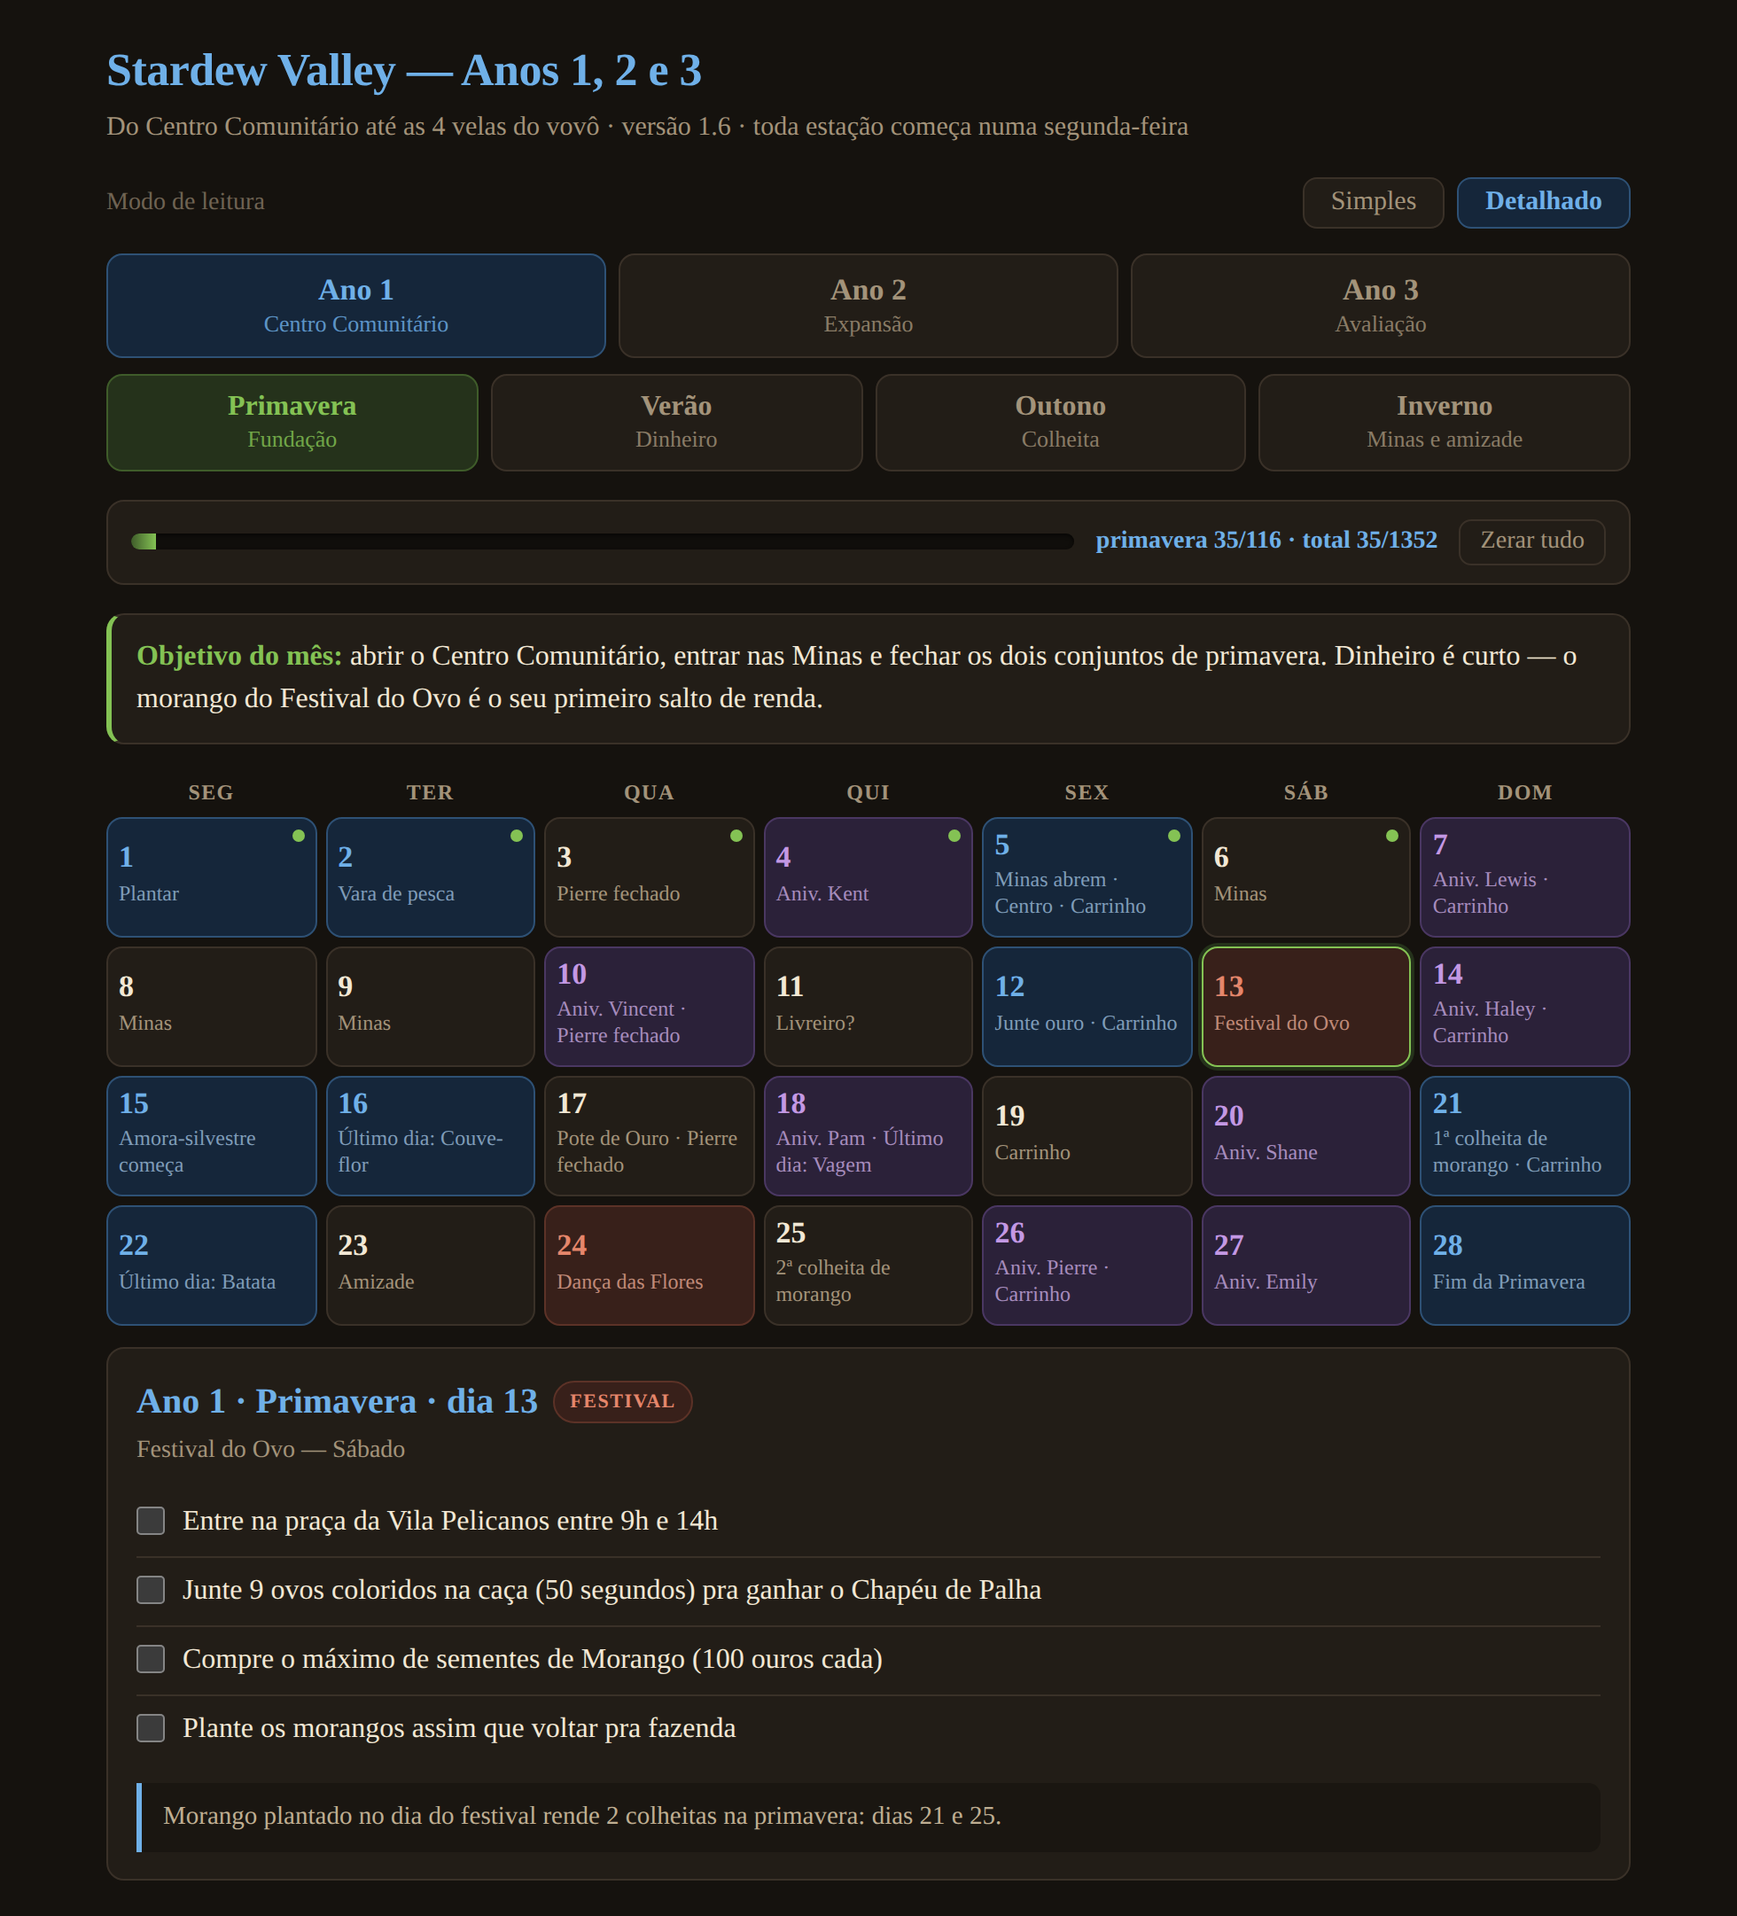
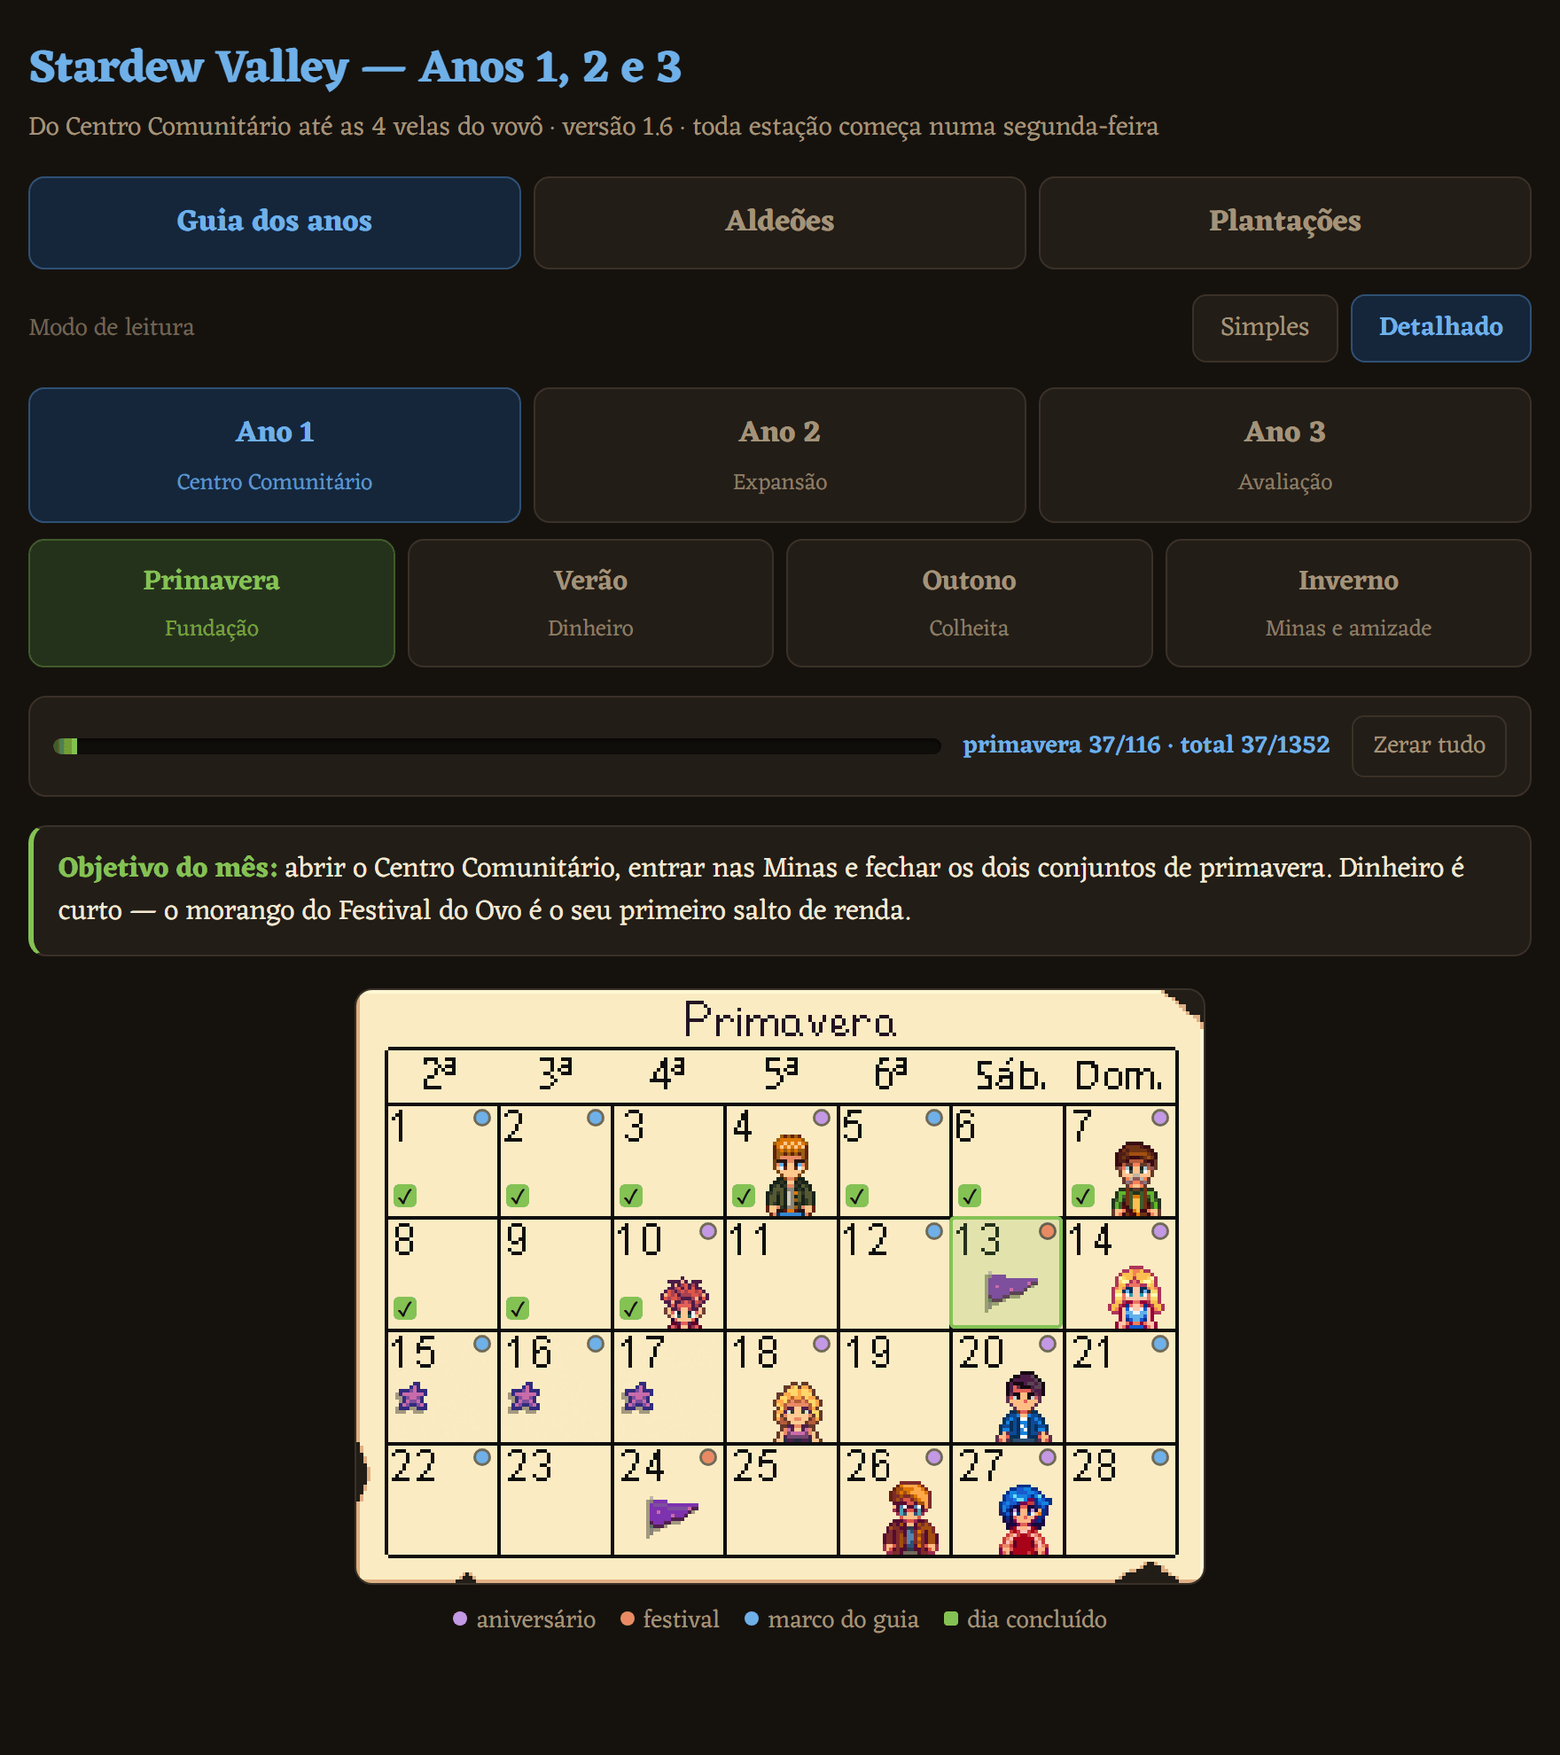
Reescreve o README e refaz as capturas de tela
O README ainda descrevia um guia de uma aba só, e as capturas mostravam o
calendário desenhado em CSS, que não existe mais. Todas as telas foram
refeitas na versão atual.

O texto passa a apresentar as três abas separadamente e os números foram
conferidos contra os dados do arquivo: 12 dias de festival por ano (não 10 —
Competição de Truta e Festival da Lula ocupam dois dias cada), 45 aldeões dos
quais 34 têm aniversário, presentes e horário, 128 itens entre culturas,
coleta e peixes, e 555 imagens embutidas.

Também explica o que mudou no uso: o guia reabre onde você parou, dá para
andar de dia em dia pela ficha ou pelas setas do teclado, e "Zerar tudo"
agora pergunta antes.

A lista de próximos passos foi atualizada — o calendário em tela estreita
saiu como resolvido e entrou no lugar conferir os 24 peixes que ainda estão
incompletos, que é onde ajuda mais quem quiser contribuir.

diff --git a/README.md b/README.md
@@ -14,18 +14,63 @@
 </p>
 
 <p align="center">
-  <img src="docs/imagens/01-visao-geral.png" alt="Tela do guia: seletor de ano, abas de estação, barra de progresso e o calendário da primavera do Ano 1" width="880">
+  <img src="docs/imagens/01-visao-geral.png" alt="Tela do guia: as três abas, o seletor de ano, as abas de estação, a barra de progresso e o calendário da primavera do Ano 1" width="880">
 </p>
 
 ---
 
 ## O que é isto
 
-Um guia de Stardew Valley que te diz **o que fazer em cada um dos 336 dias** dos três primeiros anos.
+Um guia de Stardew Valley que te diz **o que fazer em cada um dos 336 dias** dos três primeiros anos — e, quando você trava no meio da partida, também te diz **o que dar de presente para a Penny** e **qual é o último dia para plantar Morango**.
 
-Nada de abrir dez abas da wiki no meio da partida. Você abre o dia, lê as 4 ou 5 tarefas daquele dia, marca o que fez e fecha. O progresso fica salvo sozinho.
+Nada de abrir dez abas da wiki no meio do jogo. Você abre o dia, lê as 4 ou 5 tarefas daquele dia, marca o que fez e fecha. O progresso fica salvo sozinho, e quando você voltar o guia abre exatamente onde parou.
 
 **Por que ele existe:** guia de Stardew Valley não falta — mas quase tudo está em inglês, espalhado em várias páginas e depende de internet. Este é grátis, em português, cabe num arquivo só e abre no meio da partida mesmo sem sinal.
+
+## As três abas
+
+### 📅 Guia dos anos
+
+O roteiro dia a dia. O calendário é a imagem do calendário do próprio jogo, com os dias clicáveis por cima — as bolinhas coloridas marcam festival, aniversário e marco do guia, e o ✓ verde aparece quando você fecha o dia.
+
+Clique num dia e ele abre a lista de tarefas, com um bilhete no fim explicando o *porquê* quando a jogada tem pegadinha. No fim da ficha, os botões levam para o dia anterior e o próximo — no dia 28 eles viram a estação sozinhos, e do Inverno pulam para o ano seguinte. No computador as setas ← e → do teclado fazem o mesmo.
+
+<img src="docs/imagens/02-detalhe-do-dia.png" alt="Detalhe do dia 13 da primavera: Festival do Ovo, com quatro tarefas marcáveis, uma nota sobre o morango e os botões de dia anterior e próximo dia" width="880">
+
+### 👥 Aldeões
+
+Os **45 moradores do vale**, com o retrato de cada um embutido no arquivo. Busca por nome e filtro pela estação do aniversário.
+
+<img src="docs/imagens/03-aldeoes.png" alt="Galeria dos aldeões separada em solteiros, solteiras e moradores do vale, com retrato e data de aniversário de cada um" width="880">
+
+Clique num aldeão e sai a ficha: aniversário, onde mora, família, se dá para casar, os **melhores presentes** com o ícone de cada item, e o **horário completo** dele — por estação, com os desvios de chuva e festival e a rotina depois do casamento.
+
+<img src="docs/imagens/04-ficha-do-aldeao.png" alt="Ficha da Penny: aniversário no Outono 2, casável, melhores presentes com ícone e o horário de verão aberto em tabela" width="880">
+
+### 🌾 Plantações
+
+Plantio, coleta e peixes de cada estação. Cada planta mostra os **estágios de crescimento** um por um, quanto tempo leva, se rebrota, quanto rende por dia, o **último dia útil para plantar** e o preço nas quatro qualidades.
+
+<img src="docs/imagens/05-plantacoes.png" alt="Aba Plantações na primavera, com a grade de culturas e a ficha do Morango: estágios de crescimento, semente, rebrota e preços" width="880">
+
+<details>
+<summary><b>Mais telas</b> — metas da estação, placar do vovô e o guia no celular</summary>
+
+<br>
+
+**Metas da estação**: os conjuntos do Centro Comunitário quebrados por estação, com a recompensa de cada um e o nome em inglês do lado — para quem joga com o jogo em inglês.
+
+<img src="docs/imagens/06-metas-da-estacao.png" alt="Metas da primavera do Ano 1: conjuntos de recursos, plantações, peixes e construção" width="880">
+
+**Placar do vovô** (aparece no Ano 3): 21 pontos, 4 velas, e quanto falta para a Estátua da Perfeição.
+
+<img src="docs/imagens/07-placar-do-vovo.png" alt="Placar do vovô com 9 de 21 pontos e 3 velas acesas" width="880">
+
+**No celular**, que é onde ele foi feito para ser lido:
+
+<img src="docs/imagens/08-celular.png" alt="O guia aberto num celular, mostrando as abas, o calendário do jogo e o começo do detalhe do dia" width="330">
+
+</details>
 
 ## Como usar
 
@@ -35,9 +80,9 @@ Baixe o [`index.html`](index.html) e dê dois cliques. Só isso. Qualquer navega
 
 ```bash
 git clone https://github.com/Yuumi-32/Guia_Stardew_Valley.git
-cd Guia_Stardew_Valley
-# abra o index.html no navegador
 ```
+
+Depois é só abrir o `index.html` no navegador.
 
 ### No celular, offline
 
@@ -46,68 +91,40 @@ cd Guia_Stardew_Valley
 3. Pronto. Depois disso não precisa mais de internet: o guia inteiro está naquele arquivo.
 
 > [!TIP]
-> Quer um link para abrir de qualquer lugar? Ligue o **GitHub Pages** em *Settings → Pages → Branch: `main` / `root`*. Em um minuto o guia fica no ar em `https://yuumi-32.github.io/Guia_Stardew_Valley/`, e aí dá para usar *Adicionar à tela inicial* no navegador do celular.
+> Quer um link para abrir de qualquer lugar? Ligue o **GitHub Pages** em *Settings → Pages → Branch: `main` / `root`*. Em um minuto o guia fica no ar em `https://yuumi-32.github.io/Guia_Stardew_Valley/`, e aí dá para usar *Adicionar à tela inicial* no navegador do celular — o guia abre em tela cheia, sem a barra do navegador.
 
 ### Onde o progresso fica salvo
 
-Nas marcações do próprio navegador (`localStorage`), no aparelho onde você abriu. Isso quer dizer que:
+Nas marcações do próprio navegador (`localStorage`), no aparelho onde você abriu. Junto com elas ficam guardados a aba, o ano, a estação e o dia que estavam abertos, então reabrir o guia te devolve para onde você parou. Isso quer dizer que:
 
 - não precisa de conta, login ou internet;
 - o progresso do celular e o do computador são separados;
-- limpar os dados do site apaga tudo — o botão **Zerar tudo** faz o mesmo, de propósito.
+- limpar os dados do site apaga tudo — o botão **Zerar tudo** faz o mesmo, mas avisa antes quantas marcações vai apagar.
 
 ## O que tem dentro
 
 | | |
 |---|---|
 | 📅 **336 dias** | Ano 1, 2 e 3 · 4 estações de 28 dias cada |
-| ✅ **1.352 itens** para marcar | 1.205 tarefas do dia + 147 itens de conjunto |
-| 🎪 **10 festivais por ano** | 36 dias de festival ao todo, com horário, local e o que fazer |
+| ✅ **1.352 itens** para marcar | 1.205 tarefas do dia + 147 itens dos 35 conjuntos |
+| 🎪 **12 dias de festival por ano** | com horário, local e o que fazer em cada um |
 | 🎂 **33 aniversários por ano** | para não perder presente de ninguém |
-| 🔑 **51 eventos-chave** | Minas abrindo, Kent voltando, ônibus consertado… |
+| 🔑 **51 marcos** | Minas abrindo, Kent voltando, ônibus consertado… |
 | 🕯 **21 pontos do vovô** | o placar da avaliação, com as 4 velas |
-
-### Um dia, por dentro
-
-Clique num dia e ele abre a lista de tarefas — com um bilhete no fim explicando o *porquê* quando a jogada tem pegadinha.
-
-<img src="docs/imagens/02-detalhe-do-dia.png" alt="Detalhe do dia 13 da primavera: Festival do Ovo, com quatro tarefas marcáveis e uma nota sobre o morango" width="880">
-
-### Metas da estação
-
-Os conjuntos do Centro Comunitário quebrados por estação, com a recompensa de cada um e o nome em inglês do lado — para quem joga com o jogo em inglês.
-
-<img src="docs/imagens/03-metas-da-estacao.png" alt="Metas da primavera do Ano 1: conjuntos de recursos, plantações, peixes e construção" width="880">
-
-<details>
-<summary><b>Mais telas</b> — placar do vovô, janelas de plantio e o guia no celular</summary>
-
-<br>
-
-**Placar do vovô** (aparece no Ano 3): 21 pontos, 4 velas, e quanto falta para a Estátua da Perfeição.
-
-<img src="docs/imagens/04-placar-do-vovo.png" alt="Placar do vovô com 9 de 21 pontos e 3 velas acesas" width="880">
-
-**Janelas de plantio e regras de ouro**: o último dia útil para plantar cada cultura sem perder a colheita.
-
-<img src="docs/imagens/05-plantio-e-regras.png" alt="Janelas de plantio da primavera e as seis regras de ouro" width="880">
-
-**No celular**, que é onde ele foi feito para ser lido:
-
-<img src="docs/imagens/06-celular.png" alt="O guia aberto num celular, mostrando o calendário e o detalhe do dia" width="330">
-
-</details>
+| 👥 **45 aldeões** | 34 com aniversário, presentes e horário · 12 casáveis |
+| 🌾 **128 itens de estação** | 45 culturas, 26 coletáveis e 57 peixes |
+| 🖼 **555 imagens embutidas** | retratos, ícones de presente, estágios de cultivo e os 4 calendários |
 
 ## Como ler o calendário
 
-Cada dia tem uma cor, e a bolinha verde no canto aparece quando você marcou tudo daquele dia:
+O calendário é a imagem do mês do próprio jogo. Cada dia tem uma bolinha no canto quando acontece alguma coisa, e o ✓ verde aparece quando você marcou tudo daquele dia:
 
-| Cor | Significa |
+| Bolinha | Significa |
 |---|---|
-| 🟥 **Vermelho** | Festival — o dia inteiro muda de rotina |
-| 🟪 **Roxo** | Aniversário de aldeão |
-| 🟦 **Azul** | Evento-chave: prazo de plantio, Minas abrindo, primeira colheita |
-| ⬛ **Sem cor** | Dia de rotina |
+| 🟣 **Roxa** | Aniversário de aldeão |
+| 🟠 **Laranja** | Festival — o dia inteiro muda de rotina |
+| 🔵 **Azul** | Marco do guia: prazo de plantio, Minas abrindo, primeira colheita |
+| 🟢 **✓ verde** | Dia concluído |
 
 E dois botões que mudam o guia inteiro:
 
@@ -120,7 +137,11 @@ O plano é virar um app de celular de verdade. O HTML foi o começo justamente p
 
 - [x] Guia completo dos três anos, com progresso salvo
 - [x] Modo simples e modo detalhado
-- [ ] **Ajustar o calendário em telas estreitas** — na largura de um celular os nomes dos dias quebram no meio da palavra (dá para ver na captura do celular)
+- [x] Calendário legível em tela estreita — resolvido trocando a grade desenhada pela imagem do calendário do jogo
+- [x] Aldeões: retratos, presentes, família e horários
+- [x] Plantações: culturas, coleta e peixes de cada estação
+- [x] Navegar de um dia para o outro sem voltar ao calendário
+- [ ] **Conferir os 24 peixes que ainda estão incompletos** — hoje aparecem só com a área onde saem, e a ficha avisa isso
 - [ ] **Virar PWA** — um `manifest.json` e um service worker já dão ícone na tela inicial e offline de verdade, sem precisar reescrever nada
 - [ ] **Empacotar como APK** para publicar na Play Store
 - [ ] Exportar e importar o progresso, para levar do celular pro computador
@@ -128,21 +149,35 @@ O plano é virar um app de celular de verdade. O HTML foi o começo justamente p
 
 ## Tecnologia
 
-Um arquivo HTML de ~76 KB. Sem framework, sem `npm install`, sem build, sem servidor, sem back-end, sem rastreamento. HTML, CSS e JavaScript puro, tudo junto num arquivo só — é por isso que ele abre offline e vai continuar abrindo daqui a dez anos.
+Um arquivo HTML de ~675 KB. Sem framework, sem `npm install`, sem build, sem servidor, sem back-end, sem rastreamento. HTML, CSS e JavaScript puro, tudo junto num arquivo só — é por isso que ele abre offline e vai continuar abrindo daqui a dez anos.
+
+O arquivo cresceu de 76 KB para 675 KB porque as 555 imagens estão **dentro dele**, em base64. Foi de propósito: um guia que precisa baixar retrato da wiki não serve para ler no meio da partida sem sinal.
 
 A única coisa que vem de fora é a fonte [Eczar](https://fonts.google.com/specimen/Eczar), do Google Fonts. Sem internet ele cai numa fonte serifada do sistema e continua funcionando normalmente.
 
 ## Sobre a precisão
 
-Baseado na **versão 1.6** do jogo. Datas de festivais, aniversários, itens de conjunto, preços, tempos de cultivo e o sistema de 21 pontos do vovô foram conferidos na [Stardew Valley Wiki](https://stardewvalleywiki.com/). Os nomes em português vêm da versão brasileira da wiki.
+Baseado na **versão 1.6** do jogo. Datas de festivais, aniversários, itens de conjunto, preços, tempos de cultivo, horários dos aldeões e o sistema de 21 pontos do vovô foram conferidos na [Stardew Valley Wiki](https://stardewvalleywiki.com/). Os nomes em português vêm da versão brasileira da wiki.
 
-A **ordem dia a dia é estratégia**, não regra do jogo — dá para jogar de outro jeito e chegar no mesmo lugar. E tem coisa que eu não consegui confirmar 100%: a penalidade exata de ouro ao desmaiar às 2h, se o Bagre exige chuva, e a tradução oficial de alguns nomes de lugar. Está tudo anotado no fim da página do guia.
+A **ordem dia a dia é estratégia**, não regra do jogo — dá para jogar de outro jeito e chegar no mesmo lugar.
+
+E tem coisa que eu não consegui confirmar 100%: **24 dos 57 peixes** ainda estão sem hora, clima, preço e dificuldade — nesses eu deixei em branco em vez de chutar, e a ficha avisa. Também ficaram em aberto a penalidade exata de ouro ao desmaiar às 2h e a tradução oficial de alguns nomes de lugar. Está tudo anotado no fim da página do guia.
 
 ## Contribuindo
 
-Achou um erro de data, um item faltando num conjunto ou uma tradução errada? [Abra uma issue](https://github.com/Yuumi-32/Guia_Stardew_Valley/issues) — de preferência com o link da wiki que comprova. Correção de conteúdo vale mais que código aqui.
+Achou um erro de data, um item faltando num conjunto ou uma tradução errada? [Abra uma issue](https://github.com/Yuumi-32/Guia_Stardew_Valley/issues) — de preferência com o link da wiki que comprova. Correção de conteúdo vale mais que código aqui. Os 24 peixes incompletos são o lugar mais fácil de ajudar.
 
-Se for mexer no arquivo: os dados dos três anos ficam nas constantes `ANO1`, `ANO2` e `ANO3` no `<script>` do fim do `index.html`. Anos 2 e 3 usam a função `mkEstacao()`, que preenche com a rotina padrão os dias sem evento.
+Se for mexer no arquivo, tudo está no `<script>` do fim do `index.html`:
+
+| Constante | O que guarda |
+|---|---|
+| `ANO1`, `ANO2`, `ANO3` | o roteiro dia a dia e os conjuntos de cada estação |
+| `PLACAR` | os 19 itens e 21 pontos da avaliação do vovô |
+| `NPCS`, `HORARIOS` | os 45 aldeões e os horários de 34 deles |
+| `CULTIVOS`, `COLETA`, `PEIXES` | o que dá para plantar, colher e pescar em cada estação |
+| `RETRATOS`, `PRESENTES`, `CIMG`, `CALENDARIOS` | as imagens em base64 |
+
+Anos 2 e 3 usam a função `mkEstacao()`, que preenche com a rotina padrão os dias sem evento.
 
 ## Créditos
 
